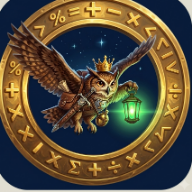
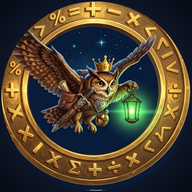
Fixa ljus safe-area-remsa + full-bleed app-ikon
Botten-remsan: iOS fyller ytan bakom home-indikatorn med DOKUMENTETS
bakgrundsfärg, som var pergament-krämig — därav den ljusa listen. Nu är
html/body-färgen den mörka ramtonen (= theme-color #241C24) och pergamentet
bor på #root (fyller vyn). En eventuell safe-area-glipa blir då en diskret
mörk kant i stället för en krämig list; innehållsvyerna är oförändrade.

App-ikonen: den hade inbakade rundade hörn med ljusgrå fyllnad, men iOS
rundar själv → grå hörnartefakter. Natthimlen är nu utdragen till kanten
(mörkblå, mörkare mot hörnen) så den gyllene ringen och den krönta ugglan
svävar i en sömlös natt och iOS-rundningen blir ren. 512 + 192 regenererade.

Claude-Session: https://claude.ai/code/session_01EWWvLJbBCdC8JAwL2KTHKS

diff --git a/src/styles/global.css b/src/styles/global.css
@@ -85,16 +85,22 @@ html, body {
   width: 100%;
   overflow: hidden;
 }
-/* #root fyller det fastnaglade dokumentet EXAKT. (Tidigare 100dvh gjorde
-   #root någon pixel kortare än inset:0 i standalone-läge → en ljus remsa av
-   body-pergamentet blottades nedtill. height:100% av fixed inset:0 = full höjd.) */
 html, body, #root { height: 100%; }
+
+/* iOS fyller ytan bakom home-indikatorn/statusfältet med DOKUMENTETS
+   bakgrundsfärg. Den måste därför vara den mörka ramtonen (= theme-color),
+   annars blev det en ljus pergamentremsa nedtill i hemskärmsläget. Själva
+   pergamentet flyttas till #root nedan — det fyller vyn och innehållsvyerna
+   ligger ovanpå, så en eventuell safe-area-glipa blir en diskret mörk kant. */
+html, body { background-color: #241C24; }
+
+/* Pergamentbotten för hela appen bor nu på #root (fyller den fastnaglade
+   vyn). Uppgifts-/föräldravyer syns mot den; kartor/strider lägger egna
+   bakgrunder ovanpå. */
+#root { background: var(--tex-parchment, none) center / cover, var(--bg); }
 
 body {
   margin: 0;
-  /* Pergament över hela appen (syns på uppgifts-/föräldravyer; kartorna
-     lägger egna bakgrunder ovanpå). Fäst så den inte scrollar. */
-  background: var(--tex-parchment, none) center / cover fixed, var(--bg);
   color: var(--ink);
   font-family: var(--font);
   font-size: 16px;